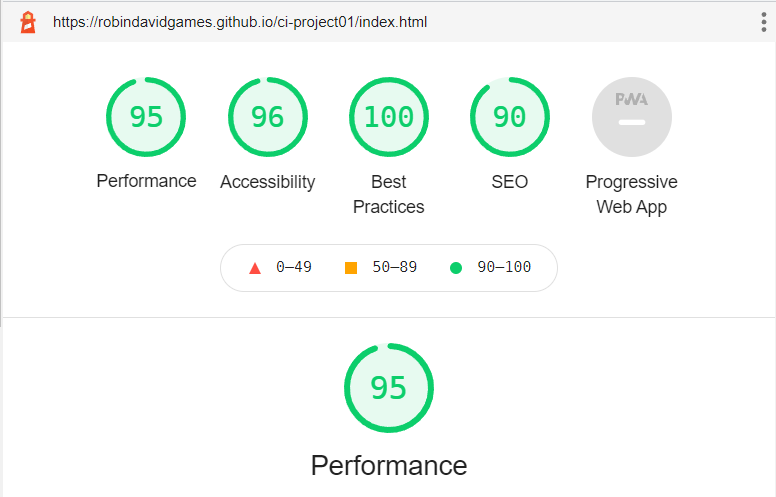
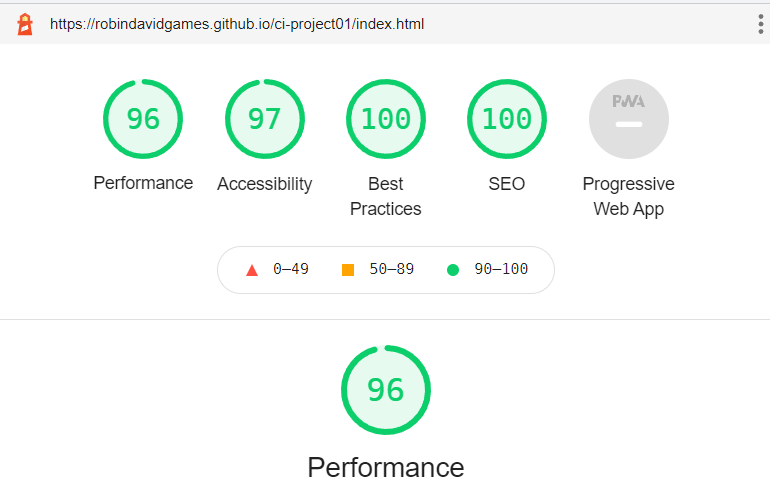
Add validator details to README.

diff --git a/README.md b/README.md
@@ -90,25 +90,29 @@ Screenshot from ami.responsivedesign.is
 2. The call to action link was created with a h3 tag (following from a h1 tag for the page title). However, I read that using header tags out of order causes problems for some assistive readers. As such, I instead styled it with a unique ID. For the same reason, I also used CSS to create all upper-case titles, rather than writing them in upper case.
 3. Text in the Meetup section needed greater contrast than other headings used in the page. I created a CSS rule for ".location h2" to override their styling.
 4. Text in the Meetup section was getting squashed on smaller resolution screens and eventually leaving the boudaries of the respective div. To solve this, I created a media query for screens 750px wide and created style rules to increase the width of the divs, to stack them, and to adjust the background images in each div.
+5. When checking accessibilty using Lighthouse, I discovered that I had mistyped meta data "viewport" as "viewpoint", redering it useless. 
 
 ### Unfixed bugs
 
 1. On very small screens, the navigation links stack but do so in a non-ideal order.
-2. On Chrome, some of the responsive design elements do not trigger. Instead, Chrome appears to reduce font sizes so that they are not needed. They do trigger in Firefox. 
-3. In chrome, paragraph text on the contact page does not scale. It is still functional, but less attractive.
+2. On very narrow screens (less than 400pixels) elements on the game page can become misaligned. They are still readable, but not attractive. Additionally, images in the About Us section shrink to very small sizes.
 
 ## Validator Testing
     
 1. HTML
-
+The website passed the HTML validator without issue.
 https://validator.w3.org/nu/?doc=https%3A%2F%2Frobindavidgames.github.io%2Fci-project01%2Findex.html
 
 2. CSS
-
+The website passed the CSS validator without issue.
 https://jigsaw.w3.org/css-validator/validator?uri=https%3A%2F%2Frobindavidgames.github.io%2Fci-project01%2Findex.html&profile=css3svg&usermedium=all&warning=1&vextwarning=&lang=en
 
 3. Accessibility using Lighthouse
-The website did very well on the Lighthouse accessbility test for desktop browsers, with an overall performace of 95%. It did less well on Lighthouse for mobile, at only 55%. A large proportion of this was to do with image file sizes, which are considered too high.
+The website did very well on the Lighthouse accessbility test on both desktop and mobile.
+
+![Lighthouse validator for desktop](/assets/images/readme-images/lighthouse-desktop.png)
+
+![Lighthouse validator for mobile](/assets/images/readme-images/lighthouse-mobile.png)
 
 ## Deployment
     This site was deployed to GitHub Pages. The live link is here: https://robindavidgames.github.io/ci-project01/index.html
